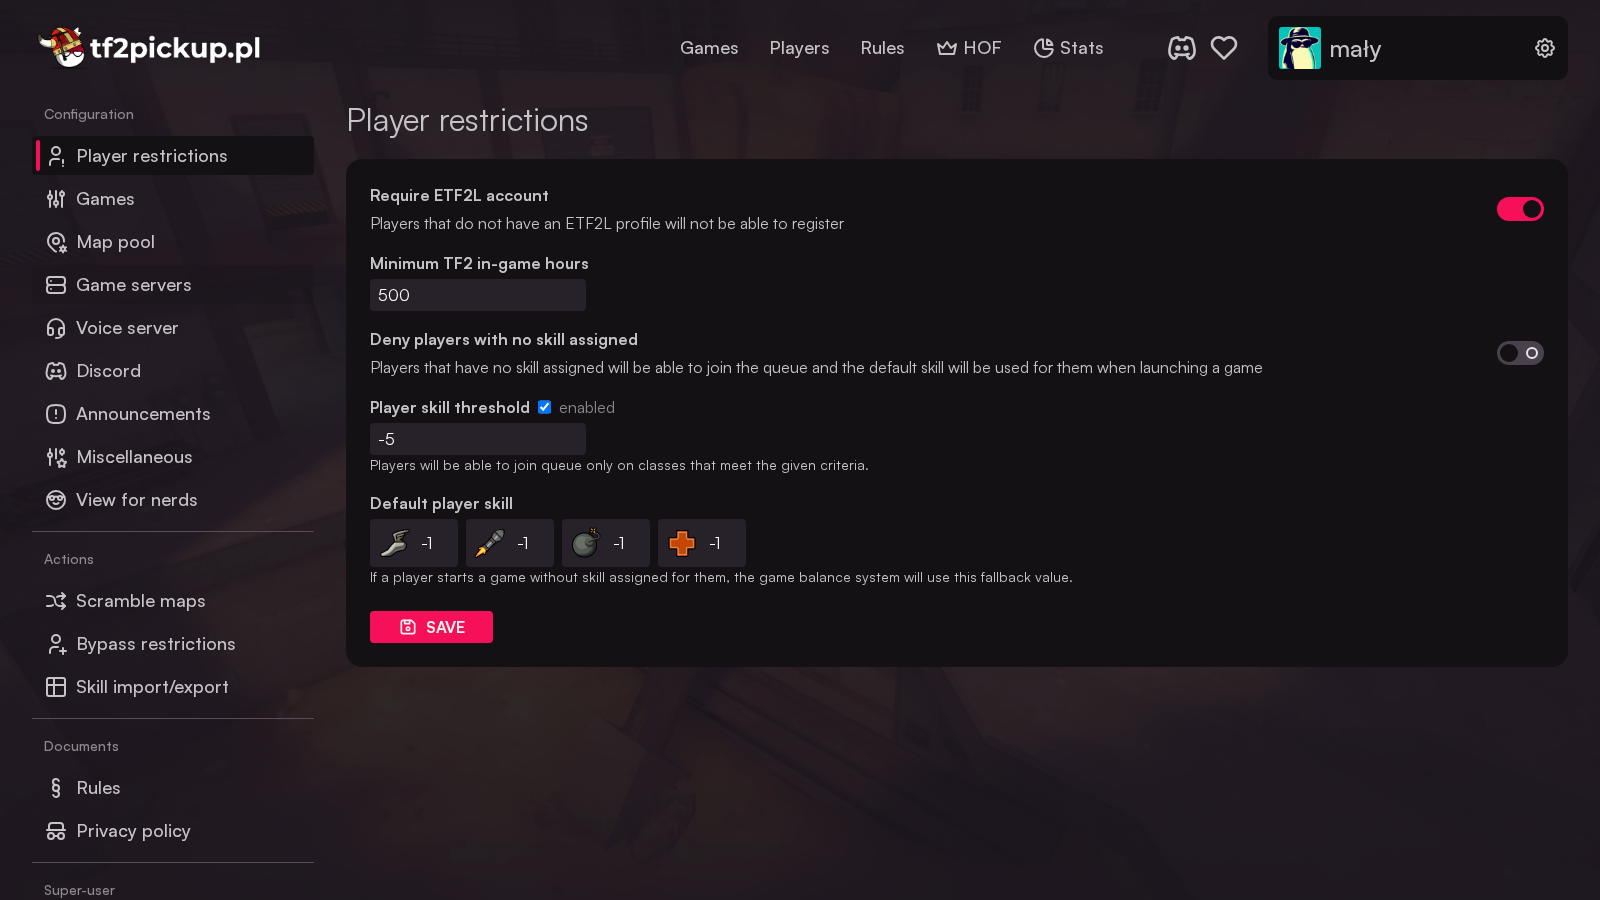
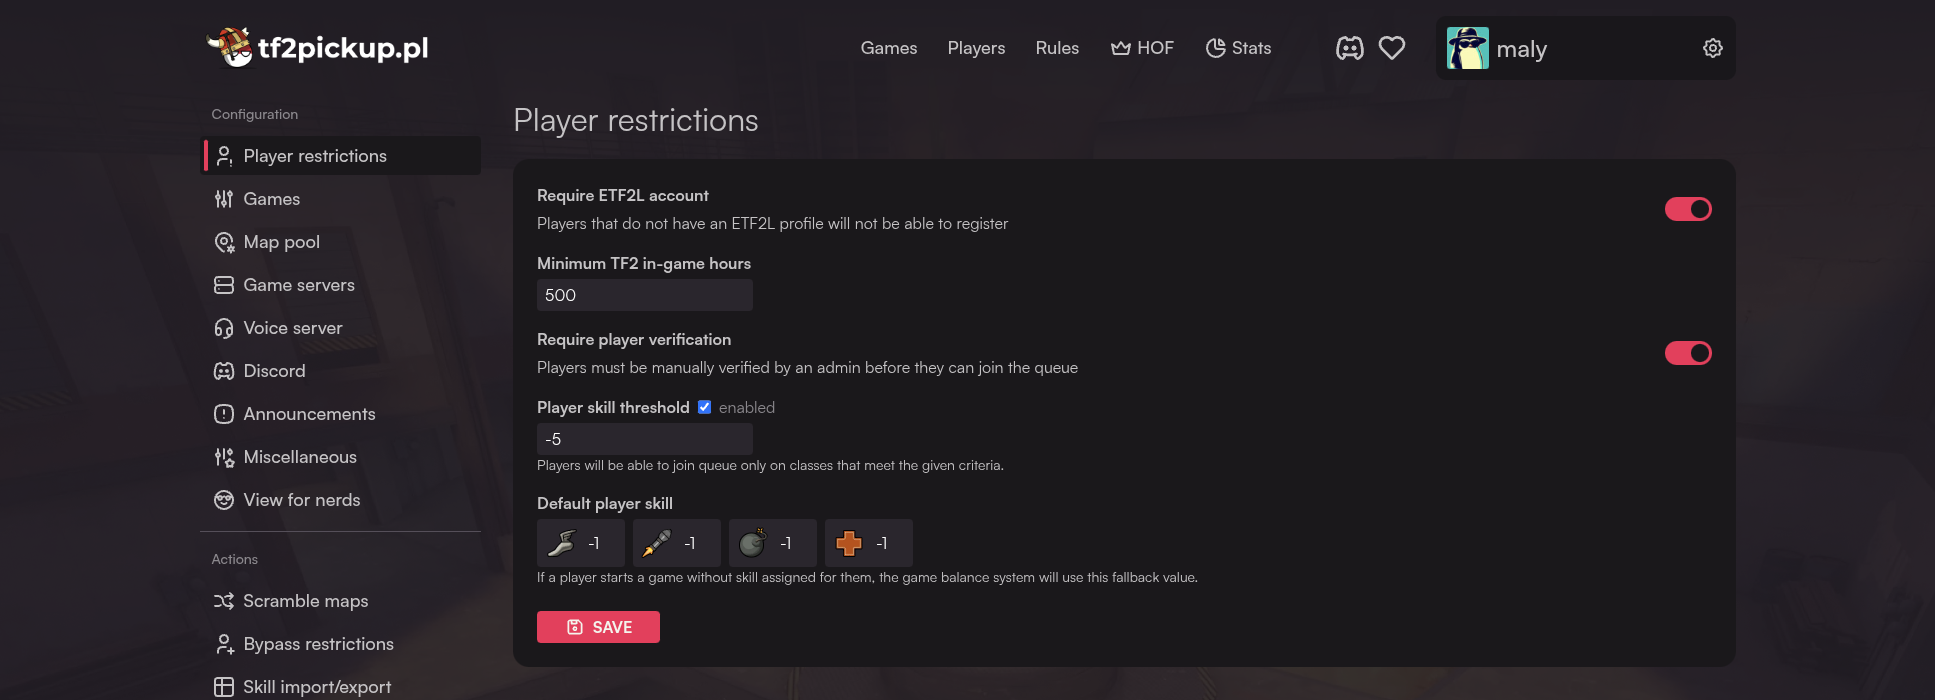
docs: update player restrictions docs for manual verification feature
Replaces "deny players with no skill assigned" with the new manual
player verification system introduced in tf2pickup-org/tf2pickup#484.

- Update website-settings.md: rename toggle, describe verification flow
  and Discord notifications
- Update admin-responsibilities-and-powers.md: add player verification
  to the list of admin powers
- Update the-most-common-tasks.md: note the Player verified checkbox in
  the admin toolbox
- Recapture player-restrictions.png and set-skills-for-a-player.png
- Remove orphaned your-account-needs-review.png

diff --git a/docs/website-settings.md b/docs/website-settings.md
@@ -92,7 +92,7 @@ Since not all regions of the world participate in ETF2L or have a profile create
 
 - enable/disable user validation against the [ETF2L API](https://api-v2.etf2l.org),
 - define minimum TF2 in-game time spent in order to register to the website,
-- allow/deny players with no skill assigned.
+- require player verification to join the queue.
 
 The ETF2L user validation lets website:
 
@@ -110,9 +110,9 @@ In order to change the requirement, simply click on it, define a new amount of h
 
 ![player-restrictions](/img/content/website-settings/player-restrictions.png)
 
-If the last setting is enabled, any used with skill not defined manually by an admin will not be able to join pickup queue and they will be notified about it:
+If **Require player verification** is enabled, admins must manually verify each player before they can join the queue. Unverified players will see the queue join buttons disabled. Admins can verify a player directly from their profile page using the **Player verified** checkbox in the admin toolbox.
 
-![your-account-needs-review](/img/content/website-settings/your-account-needs-review.png)
+When a player's verification status changes, a notification is sent to the Discord admin channel (green embed for verified, orange for revoked).
 
 ## Configuring voice server settings
 

diff --git a/docs/the-most-common-tasks.md b/docs/the-most-common-tasks.md
@@ -78,6 +78,8 @@ If you won't assign skill for a player - they will get skill values defined in a
 
 When an admin views a player's profile, a skill editing toolbox is displayed directly on the page. It shows input fields for each game class, a win-loss chart, and a save button.
 
+If [player verification](/docs/website-settings#configuring-player-restrictions) is enabled, the toolbox also shows a **Player verified** checkbox. Checking it allows the player to join the queue; unchecking it revokes that permission immediately.
+
 ![set-skills-for-a-player](/img/content/common-tasks/set-skills-for-a-player.png)
 
 Adjust the values for each class and click `Save`. You can also click `Reset` to revert to the default skill values.

diff --git a/docs/admin-responsibilities-and-powers.md b/docs/admin-responsibilities-and-powers.md
@@ -7,6 +7,7 @@ Pickup admins are responsible for the game balance, healthy organization and - a
 They can:
 
 - assign skills to players, see skills of all players,
+- verify players (when player verification is required),
 - request player substitutes during the games,
 - ban players and revoke those bans,
 - manage the map pool,
